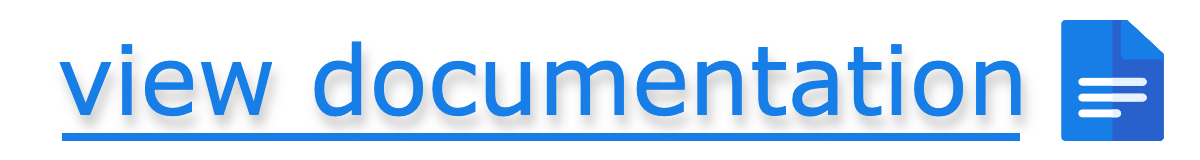
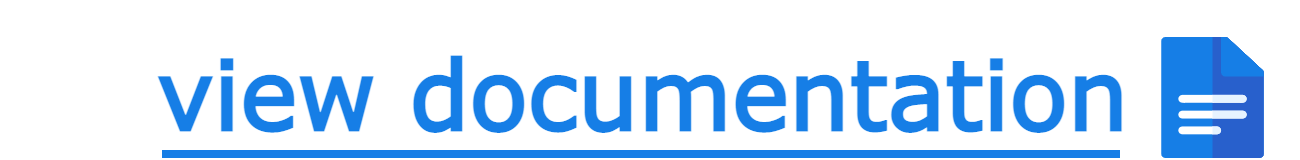
update docs

diff --git a/readme.md b/readme.md
@@ -4,7 +4,7 @@
 ![Version](https://img.shields.io/npm/v/olik?style=flat-square&colorA=262620&colorB=3C52A4)
 ![Coverage Status](https://img.shields.io/coveralls/github/Memeplexx/olik?style=flat-square&colorA=262620&colorB=3C52A4)
 ![Package Size](https://img.shields.io/bundlephobia/minzip/olik?style=flat-square&colorA=262620&colorB=3C52A4)
-[<img height="20px" src="https://github.com/Memeplexx/olik/blob/master/assets/documentation.png" />](https://memeplexx.github.io/olik)
+[<img height="30px" src="https://github.com/Memeplexx/olik/blob/master/assets/documentation.png" />](https://memeplexx.github.io/olik)
 
 <img src="https://github.com/Memeplexx/olik/blob/master/assets/recording-with-comments.gif" style="width: 600px" />  
 
